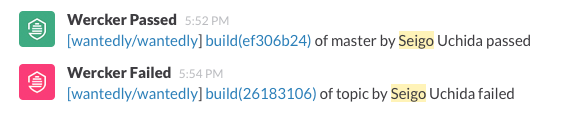
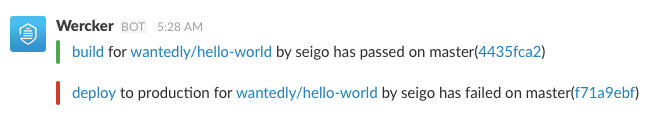
Update README
Add description about how to define additional message

Changed region(s): [[0.0, 0.0769, 0.9671, 0.8718]]

diff --git a/README.md b/README.md
@@ -1,7 +1,7 @@
 # Slack Notify Step [![Docker Repository on Quay.io](https://quay.io/repository/wantedly/pretty-slack-notify/status "Docker Repository on Quay.io")](https://quay.io/repository/wantedly/pretty-slack-notify)
 Posts wercker build/deploy status to a [Slack Channel](https://slack.com/).
 
-![screenshot](https://raw.githubusercontent.com/wantedly/step-pretty-slack-notify/master/screenshot.png)
+![screenshot](screenshot.png)
 
 ## REQUIREMENTS
 
@@ -13,6 +13,7 @@ Options
 * `username` - The name of your bot. (default `Wercker`)
 * `branches` - Specific branches to notify. (regular expression)
 * `notify_on` - Allows you to specify to notify on `passed` or `failed`. (default all allows notify)
+* `passed_message`/`failed_message` - Allows you to define additional message on `passed`/`failed`. (You can use [slack formatting options](https://api.slack.com/docs/message-formatting))
 
 ## EXAMPLE USAGE
 posts build notification
@@ -62,7 +63,7 @@ build:
             branches: ^master$
 ```
 
-notify on specific failed only
+notify on failed build only
 
 ```yml
 build:
@@ -72,6 +73,18 @@ build:
         - wantedly/pretty-slack-notify:
             webhook_url: $SLACK_WEBHOOK_URL
             notify_on: "failed"
+```
+
+define additional message on passed build
+
+```yml
+build:
+    after-steps:
+        - install-packages:
+            packages: ruby
+        - wantedly/pretty-slack-notify:
+            webhook_url: $SLACK_WEBHOOK_URL
+            passed_message: yay :smile:
 ```
 
 ## CHANGELOG

diff --git a/CHANGELOG.md b/CHANGELOG.md
@@ -1,3 +1,8 @@
+## 0.3.0 (2016-11-22)
+
+* Refactor `run.rb`
+* Support to define additional message
+
 ## 0.2.14 (2015-12-07)
 Bugs Fixed:
 
